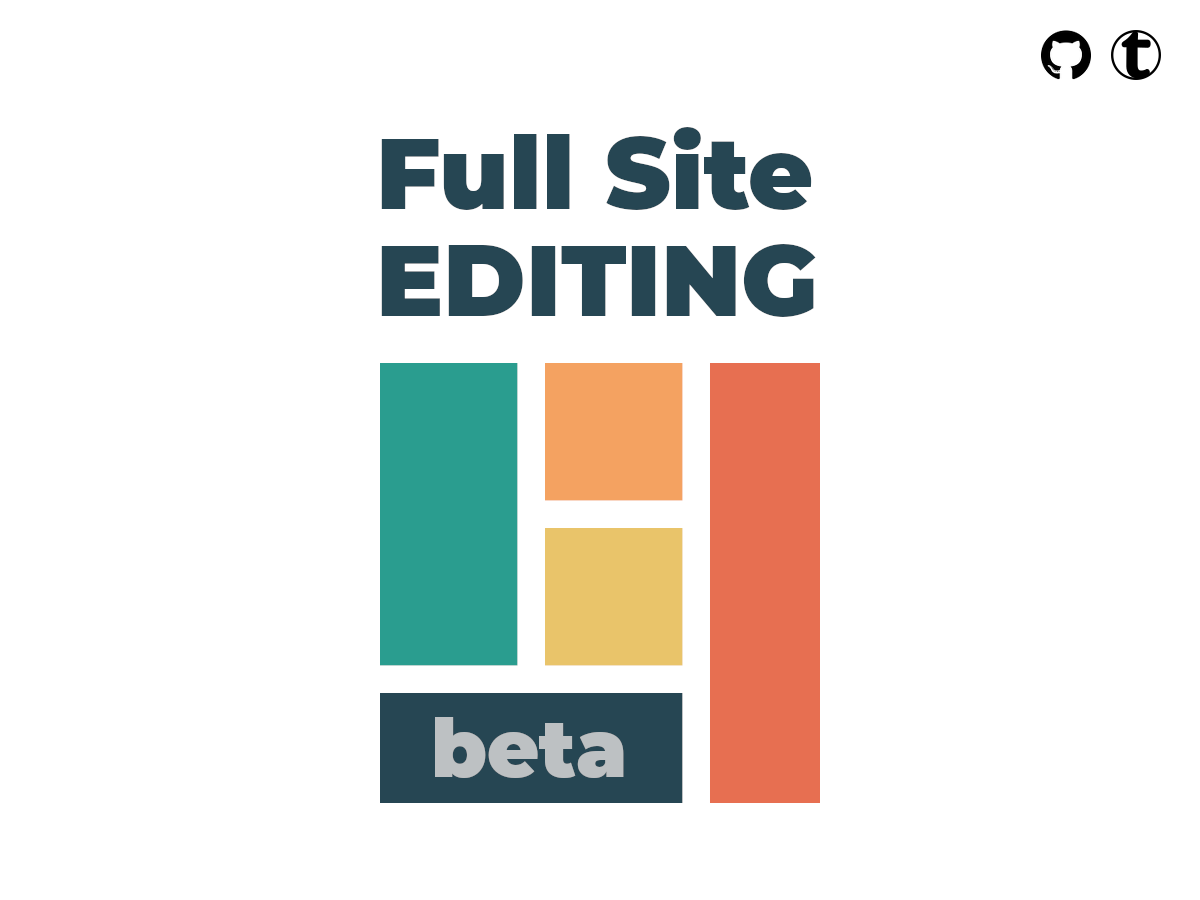
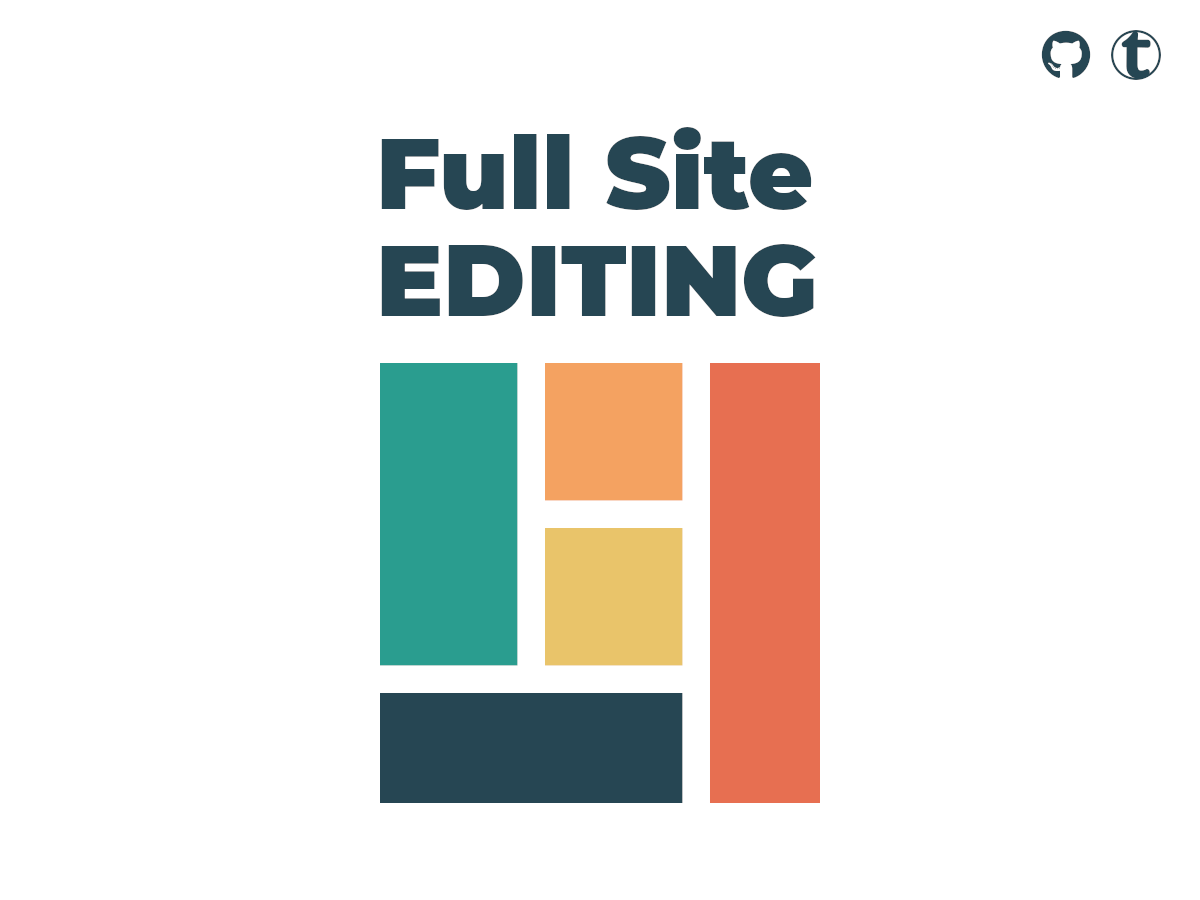
Bump version to 1.0
Adapt code to be ready for tomorrow's WordPress 5.9 release 🎉
Remove any pre-release references

Changed region(s): [[0.3392, 0.7778, 0.5242, 0.8711], [0.8633, 0.0311, 0.9867, 0.0933]]

diff --git a/assets/dist/main.css b/assets/dist/main.css
@@ -1,1 +1,1 @@
-img{vertical-align:middle}textarea,input[type=text],input[type=password],input[type=url],input[type=email],input[type=number],input[type=search]{display:-webkit-box;display:-ms-flexbox;display:flex;padding:12px 16px 14px;border:1px solid var(--wp--preset--color--dark-gray) !important}h1,.h1,body.author .wp-block-post-author .wp-block-post-author__name{font-size:var(--wp--preset--font-size--gigantic);line-height:var(--wp--custom--typography--line-height--page-title)}body{color:var(--wp--preset--color--black);margin:0}body.author .wp-block-post-author{-webkit-box-align:center;-ms-flex-align:center;align-items:center;margin-bottom:calc( var(--wp--custom--spacing--vertical) * 3 )}body.author .wp-block-post-author .wp-block-post-author__avatar{margin-right:calc( var(--wp--custom--spacing--vertical) * 2 )}body.author .wp-block-post-author .wp-block-post-author__avatar .avatar{width:180px;height:auto}body.author .wp-block-post-author .wp-block-post-author__bio{font-size:var(--wp--preset--font-size--normal);line-height:var(--wp--custom--typography--line-height--body)}body.category .wp-block-term-description{font-size:var(--wp--preset--font-size--normal);line-height:var(--wp--custom--typography--line-height--body);margin-bottom:calc( var(--wp--custom--spacing--vertical) * 3 )}header.site-header{padding:var(--wp--custom--spacing--vertical) var(--wp--custom--spacing--horizontal)}header.site-header .wp-block-navigation .wp-block-navigation__responsive-container-content{display:block}header.site-header .wp-block-navigation .wp-block-search{display:-webkit-box;display:-ms-flexbox;display:flex;-webkit-box-pack:end;-ms-flex-pack:end;justify-content:flex-end;margin-bottom:calc( var(--wp--custom--spacing--vertical) * .5 )}header.site-header .wp-block-navigation .wp-block-search .wp-block-search__inside-wrapper{max-width:300px}main{padding:0 var(--wp--custom--spacing--horizontal)}main .wp-block-query .wp-block-post-title{padding:0}main .wp-block-post-content .alignfull{margin-left:calc( var(--wp--custom--spacing--horizontal) * -1 ) !important;margin-right:calc( var(--wp--custom--spacing--horizontal) * -1 ) !important;padding-left:var(--wp--custom--spacing--horizontal);padding-right:var(--wp--custom--spacing--horizontal)}footer.site-footer{padding:var(--wp--custom--spacing--vertical) var(--wp--custom--spacing--horizontal)}ul.wp-block-post-template{list-style:none;padding:0}ul.wp-block-post-template li{margin-bottom:calc( var(--wp--custom--spacing--vertical) * 3 )}.wp-block-search.wp-block-search__button-inside .wp-block-search__inside-wrapper{border:1px solid var(--wp--preset--color--dark-gray)}.wp-block-search.wp-block-search__button-inside .wp-block-search__inside-wrapper input[type=search]{border:none !important}.wp-block-search.wp-block-search__button-inside .wp-block-search__button{background:transparent;border:none}.wp-block-navigation .wp-block-navigation-link.current-menu-item .wp-block-navigation-item__label{border-bottom:2px solid}.wp-block-navigation .wp-block-navigation__responsive-container-close{position:fixed;top:var(--wp--custom--spacing--vertical);right:var(--wp--custom--spacing--horizontal)}.wp-block-query-pagination a{text-decoration:none}.wp-block-query-pagination .wp-block-query-pagination-numbers .page-numbers:not(.dots){display:inline-block;border:1px solid;text-align:center;min-width:30px}.wp-block-query-pagination .wp-block-query-pagination-numbers .page-numbers:not(.dots).current{font-weight:bold}.wp-block-post-navigation-link{margin:calc( var(--wp--custom--spacing--vertical) * 2 ) 0;padding:0 var(--wp--custom--spacing--horizontal)}.wp-block-post-navigation-link.post-navigation-link-previous a::before{content:"« "}.wp-block-post-navigation-link.post-navigation-link-next a::after{content:" »"}.wp-block-post-featured-image img{width:100%}.wp-block-post-author__avatar .avatar{border-radius:50%}.post-password-form p:nth-of-type(2){display:-webkit-box;display:-ms-flexbox;display:flex;-webkit-box-align:end;-ms-flex-align:end;align-items:flex-end}.post-password-form p:nth-of-type(2) label{min-width:150px;margin-right:calc( var(--wp--custom--spacing--horizontal) * .5 )}[class*=comment-form-]{display:-webkit-box;display:-ms-flexbox;display:flex}[class*=comment-form-] label{min-width:150px;margin-right:calc( var(--wp--custom--spacing--horizontal) * .5 )}.comment-form-cookies-consent{display:block}.wp-block-post-comments{margin-top:calc( var(--wp--custom--spacing--vertical) * 3 )}.wp-block-post-comments .comment-respond{margin-top:calc( var(--wp--custom--spacing--vertical) * 3 )}.wp-block-post-comments .nocomments{display:none}.wp-block-separator{opacity:1;border-width:1px}.wp-block-post-content .wp-block-separator{margin-top:calc( var(--wp--custom--spacing--vertical) * 2 );margin-bottom:calc( var(--wp--custom--spacing--vertical) * 2 )}.wp-block-button.is-style-outline .wp-block-button__link{color:var(--wp--preset--color--dark-gray);background-color:transparent;border:1px solid var(--wp--preset--color--dark-gray)}.wp-block-button .wp-block-button__link{color:var(--wp--preset--color--white);background-color:var(--wp--preset--color--dark-gray);border-radius:9999px;border:none;-webkit-box-shadow:none;box-shadow:none;cursor:pointer;display:inline-block;font-size:1.125em;padding:calc(.667em + 2px) calc(1.333em + 2px);text-align:center;text-decoration:none;overflow-wrap:break-word}.wp-block-table td,.wp-block-table th{border:inherit}.wp-block-image img,.wp-block-image video,.wp-block-media-text__media img,.wp-block-media-text__media video{height:auto}@media(max-width: 999px){input[type=text],input[type=url],input[type=email],input[type=number],input[type=search]{width:100%}}@media(max-width: 599px){input[type=text],input[type=url],input[type=email],input[type=number],input[type=search]{width:100%}#submit{width:100%}header.site-header .wp-block-navigation .wp-block-navigation__container{margin:0;-webkit-box-align:center !important;-ms-flex-align:center !important;align-items:center !important}header.site-header .wp-block-navigation .wp-block-search .wp-block-search__inside-wrapper{max-width:100%}footer.site-footer .wp-block-site-title,footer.site-footer [class*=has-text-align-]{text-align:center}footer.site-footer .wp-block-site-title,footer.site-footer .wp-block-navigation{width:100%}footer.site-footer .wp-block-site-title{margin-bottom:var(--wp--custom--spacing--vertical)}footer.site-footer .wp-block-navigation{-webkit-box-pack:center;-ms-flex-pack:center;justify-content:center}.wp-block-post-navigation-link{margin:var(--wp--custom--spacing--vertical) 0;padding:0 var(--wp--custom--spacing--horizontal);text-align:center}.wp-block-post-navigation-link.post-navigation-link-previous{margin-top:calc( var(--wp--custom--spacing--vertical) * 3 )}}
+img{vertical-align:middle}textarea,input[type=text],input[type=password],input[type=url],input[type=email],input[type=number],input[type=search]{display:-webkit-box;display:-ms-flexbox;display:flex;padding:12px 16px 14px;border:1px solid var(--wp--preset--color--dark-gray) !important}h1,.h1,body.author .wp-block-post-author .wp-block-post-author__name{font-size:var(--wp--preset--font-size--gigantic);line-height:var(--wp--custom--typography--line-height--page-title)}body{margin:0}body.author .wp-block-post-author{-webkit-box-align:center;-ms-flex-align:center;align-items:center;margin-bottom:calc( var(--wp--custom--spacing--vertical) * 3 )}body.author .wp-block-post-author .wp-block-post-author__avatar{margin-right:calc( var(--wp--custom--spacing--vertical) * 2 )}body.author .wp-block-post-author .wp-block-post-author__avatar .avatar{width:180px;height:auto}body.author .wp-block-post-author .wp-block-post-author__bio{font-size:var(--wp--preset--font-size--normal);line-height:var(--wp--custom--typography--line-height--body)}body.category .wp-block-term-description{font-size:var(--wp--preset--font-size--normal);line-height:var(--wp--custom--typography--line-height--body);margin-bottom:calc( var(--wp--custom--spacing--vertical) * 3 )}header.site-header{padding:var(--wp--custom--spacing--vertical) var(--wp--custom--spacing--horizontal)}header.site-header .wp-block-navigation .wp-block-navigation__responsive-container-content{display:block}header.site-header .wp-block-navigation .wp-block-search{display:-webkit-box;display:-ms-flexbox;display:flex;-webkit-box-pack:end;-ms-flex-pack:end;justify-content:flex-end;margin-bottom:calc( var(--wp--custom--spacing--vertical) * .5 )}header.site-header .wp-block-navigation .wp-block-search .wp-block-search__inside-wrapper{max-width:300px}main{padding:0 var(--wp--custom--spacing--horizontal)}main .wp-block-query .wp-block-post-title{padding:0}main .wp-block-post-content .alignfull{margin-left:calc( var(--wp--custom--spacing--horizontal) * -1 ) !important;margin-right:calc( var(--wp--custom--spacing--horizontal) * -1 ) !important;padding-left:var(--wp--custom--spacing--horizontal);padding-right:var(--wp--custom--spacing--horizontal)}footer.site-footer{padding:var(--wp--custom--spacing--vertical) var(--wp--custom--spacing--horizontal)}ul.wp-block-post-template{list-style:none;padding:0}ul.wp-block-post-template li{margin-bottom:calc( var(--wp--custom--spacing--vertical) * 3 )}.post-password-form p:nth-of-type(2){display:-webkit-box;display:-ms-flexbox;display:flex;-webkit-box-align:end;-ms-flex-align:end;align-items:flex-end}.post-password-form p:nth-of-type(2) label{min-width:150px;margin-right:calc( var(--wp--custom--spacing--horizontal) * .5 )}[class*=comment-form-]{display:-webkit-box;display:-ms-flexbox;display:flex}[class*=comment-form-] label{min-width:150px;margin-right:calc( var(--wp--custom--spacing--horizontal) * .5 )}.comment-form-cookies-consent{display:block}.wp-block-search.wp-block-search__button-inside .wp-block-search__inside-wrapper{border:1px solid var(--wp--preset--color--dark-gray)}.wp-block-search.wp-block-search__button-inside .wp-block-search__inside-wrapper input[type=search]{border:none !important}.wp-block-search.wp-block-search__button-inside .wp-block-search__button{background:transparent;border:none}.wp-block-navigation .wp-block-navigation-link.current-menu-item .wp-block-navigation-item__label{border-bottom:2px solid}.wp-block-navigation .wp-block-navigation__responsive-container-close{position:fixed;top:var(--wp--custom--spacing--vertical);right:var(--wp--custom--spacing--horizontal)}.wp-block-query-pagination a{text-decoration:none}.wp-block-query-pagination .wp-block-query-pagination-numbers .page-numbers:not(.dots){display:inline-block;border:1px solid;text-align:center;min-width:30px}.wp-block-query-pagination .wp-block-query-pagination-numbers .page-numbers:not(.dots).current{font-weight:bold}.wp-block-post-navigation-link{margin:calc( var(--wp--custom--spacing--vertical) * 2 ) 0;padding:0 var(--wp--custom--spacing--horizontal)}.wp-block-post-navigation-link.post-navigation-link-previous a::before{content:"«";display:inline-block;width:20px}.wp-block-post-navigation-link.post-navigation-link-next a::after{content:"»";display:inline-block;width:20px;text-align:right}.wp-block-post-featured-image img{width:100%}.wp-block-post-author__avatar .avatar{border-radius:50%}.wp-block-post-comments{margin-top:calc( var(--wp--custom--spacing--vertical) * 3 )}.wp-block-post-comments .comment-respond{margin-top:calc( var(--wp--custom--spacing--vertical) * 3 )}.wp-block-post-comments .nocomments{display:none}.wp-block-separator{opacity:1;border-width:1px}.wp-block-post-content .wp-block-separator{margin-top:calc( var(--wp--custom--spacing--vertical) * 2 );margin-bottom:calc( var(--wp--custom--spacing--vertical) * 2 )}.wp-block-table td,.wp-block-table th{border:inherit}.wp-block-image img,.wp-block-image video,.wp-block-media-text__media img,.wp-block-media-text__media video{height:auto}@media(max-width: 999px){input[type=text],input[type=password],input[type=url],input[type=email],input[type=number],input[type=search]{width:100%}}@media(max-width: 599px){input[type=text],input[type=password],input[type=url],input[type=email],input[type=number],input[type=search],[type=submit],#submit{width:100%}header.site-header .wp-block-navigation .wp-block-navigation__container{margin:0;-webkit-box-align:center !important;-ms-flex-align:center !important;align-items:center !important}header.site-header .wp-block-navigation .wp-block-search .wp-block-search__inside-wrapper{max-width:100%}footer.site-footer .wp-block-site-title,footer.site-footer [class*=has-text-align-]{text-align:center}footer.site-footer .wp-block-site-title,footer.site-footer .wp-block-navigation{width:100%}footer.site-footer .wp-block-site-title{margin-bottom:var(--wp--custom--spacing--vertical)}footer.site-footer .wp-block-navigation{-webkit-box-pack:center;-ms-flex-pack:center;justify-content:center}.wp-block-post-navigation-link{margin:var(--wp--custom--spacing--vertical) 0;padding:0 var(--wp--custom--spacing--horizontal);text-align:center}.wp-block-post-navigation-link.post-navigation-link-previous{margin-top:calc( var(--wp--custom--spacing--vertical) * 3 )}}

diff --git a/assets/main.scss b/assets/main.scss
@@ -58,7 +58,6 @@ h1,
  */
 
 body {
-	color: $black;
 	margin: 0;
 
 	&.author {
@@ -165,103 +164,6 @@ ul.wp-block-post-template {
 	}
 }
 
-// Search
-
-.wp-block-search {
-	&.wp-block-search__button-inside {
-		.wp-block-search__inside-wrapper {
-			border: 1px solid $dark-gray;
-
-			input[type="search"] {
-				border: none !important;
-			}
-		}
-
-		.wp-block-search__button {
-			background: transparent;
-			border: none;
-		}
-	}
-}
-
-// Navigation
-
-.wp-block-navigation {
-	.wp-block-navigation-link {
-		&.current-menu-item {
-			.wp-block-navigation-item__label {
-				border-bottom: 2px solid;
-			}
-		}
-	}
-
-	.wp-block-navigation__responsive-container-close {
-		position: fixed;
-		top: $spacing-vertical;
-		right: $spacing-horizontal;
-	}
-}
-
-// Pagination
-
-.wp-block-query-pagination {
-	a {
-		text-decoration: none;
-	}
-
-	.wp-block-query-pagination-numbers {
-		.page-numbers:not(.dots) {
-			display: inline-block;
-			border: 1px solid;
-			text-align: center;
-			min-width: 30px;
-
-			&.current {
-				font-weight: bold;
-			}
-		}
-	}
-}
-
-// Post navigation
-
-.wp-block-post-navigation-link {
-	margin: calc( #{$spacing-vertical} * 2 ) 0;
-	padding: 0 $spacing-horizontal;
-
-	&.post-navigation-link-previous {
-		a {
-			&::before {
-				content: '\00AB\00A0'; // «
-			}
-		}
-	}
-
-	&.post-navigation-link-next {
-		a {
-			&::after {
-				content: '\00A0\00BB'; // »
-			}
-		}
-	}
-}
-
-// Featured image
-
-.wp-block-post-featured-image {
-	img {
-		width: 100%;
-	}
-}
-
-// Post avatar
-
-.wp-block-post-author__avatar {
-	.avatar {
-		border-radius: 50%;
-	}
-}
-
 // Password protected form
 
 .post-password-form {
@@ -291,7 +193,109 @@ ul.wp-block-post-template {
 	display: block;
 }
 
-// Comments
+// Block: Search
+
+.wp-block-search {
+	&.wp-block-search__button-inside {
+		.wp-block-search__inside-wrapper {
+			border: 1px solid $dark-gray;
+
+			input[type="search"] {
+				border: none !important;
+			}
+		}
+
+		.wp-block-search__button {
+			background: transparent;
+			border: none;
+		}
+	}
+}
+
+// Block: Navigation
+
+.wp-block-navigation {
+	.wp-block-navigation-link {
+		&.current-menu-item {
+			.wp-block-navigation-item__label {
+				border-bottom: 2px solid;
+			}
+		}
+	}
+
+	.wp-block-navigation__responsive-container-close {
+		position: fixed;
+		top: $spacing-vertical;
+		right: $spacing-horizontal;
+	}
+}
+
+// Block: Pagination
+
+.wp-block-query-pagination {
+	a {
+		text-decoration: none;
+	}
+
+	.wp-block-query-pagination-numbers {
+		.page-numbers:not(.dots) {
+			display: inline-block;
+			border: 1px solid;
+			text-align: center;
+			min-width: 30px;
+
+			&.current {
+				font-weight: bold;
+			}
+		}
+	}
+}
+
+// Block: Post navigation
+
+.wp-block-post-navigation-link {
+	margin: calc( #{$spacing-vertical} * 2 ) 0;
+	padding: 0 $spacing-horizontal;
+
+	&.post-navigation-link-previous {
+		a {
+			&::before {
+				content: '«';
+				display: inline-block;
+				width: 20px;
+			}
+		}
+	}
+
+	&.post-navigation-link-next {
+		a {
+			&::after {
+				content: '»';
+				display: inline-block;
+				width: 20px;
+				text-align: right;
+			}
+		}
+	}
+}
+
+// Block: Featured image
+
+.wp-block-post-featured-image {
+	img {
+		width: 100%;
+	}
+}
+
+// Block: Post avatar
+
+.wp-block-post-author__avatar {
+	.avatar {
+		border-radius: 50%;
+	}
+}
+
+// Block: Comments
 
 .wp-block-post-comments {
 	margin-top: calc( #{$spacing-vertical} * 3 );
@@ -305,6 +309,8 @@ ul.wp-block-post-template {
 	}
 }
 
+// Block: Separator
+
 .wp-block-separator {
 	opacity: 1;
 	border-width: 1px;
@@ -315,34 +321,7 @@ ul.wp-block-post-template {
 	}
 }
 
-// Buttons
-
-.wp-block-button {
-	&.is-style-outline {
-		.wp-block-button__link {
-			color: $dark-gray;
-			background-color: transparent;
-			border: 1px solid $dark-gray;
-		}
-	}
-
-	.wp-block-button__link {
-		color: $white;
-		background-color: $dark-gray;
-		border-radius: 9999px;
-		border: none;
-		box-shadow: none;
-		cursor: pointer;
-		display: inline-block;
-		font-size: 1.125em;
-		padding: calc(.667em + 2px) calc(1.333em + 2px);
-		text-align: center;
-		text-decoration: none;
-		overflow-wrap: break-word;
-	}
-}
-
-// Table
+// Block: Table
 
 .wp-block-table {
 	td,
@@ -355,7 +334,7 @@ ul.wp-block-post-template {
 	}
 }
 
-// Image, Media and Text
+// Block: Image, Media and Text
 
 .wp-block-image,
 .wp-block-media-text__media {
@@ -373,6 +352,7 @@ ul.wp-block-post-template {
 
 @media (max-width: 999px) {
 	input[type="text"],
+	input[type="password"],
 	input[type="url"],
 	input[type="email"],
 	input[type="number"],
@@ -383,13 +363,12 @@ ul.wp-block-post-template {
 
 @media (max-width: 599px) {
 	input[type="text"],
+	input[type="password"],
 	input[type="url"],
 	input[type="email"],
 	input[type="number"],
-	input[type="search"] {
-		width: 100%;
-	}
-
+	input[type="search"],
+	[type="submit"],
 	#submit {
 		width: 100%;
 	}

diff --git a/style.css b/style.css
@@ -7,7 +7,7 @@ Description: I'm an Open-source Full Site Editing Starter Theme developed and ma
 Requires at least: 5.9
 Tested up to: 5.9
 Requires PHP: 7.2
-Version: 0.9.10
+Version: 1.0
 License: GPL version 2 or later
 License URI: https://www.gnu.org/licenses/gpl-2.0
 Text Domain: my-theme

diff --git a/webpack.config.js b/webpack.config.js
@@ -62,7 +62,7 @@ module.exports = {
 				loader: 'file-loader',
 				options: {
 					esModule: false,
-					outputPath: './assets/img',
+					outputPath: '../img',
 					publicPath: '../img',
 					name: '[name].[ext]',
 				},
